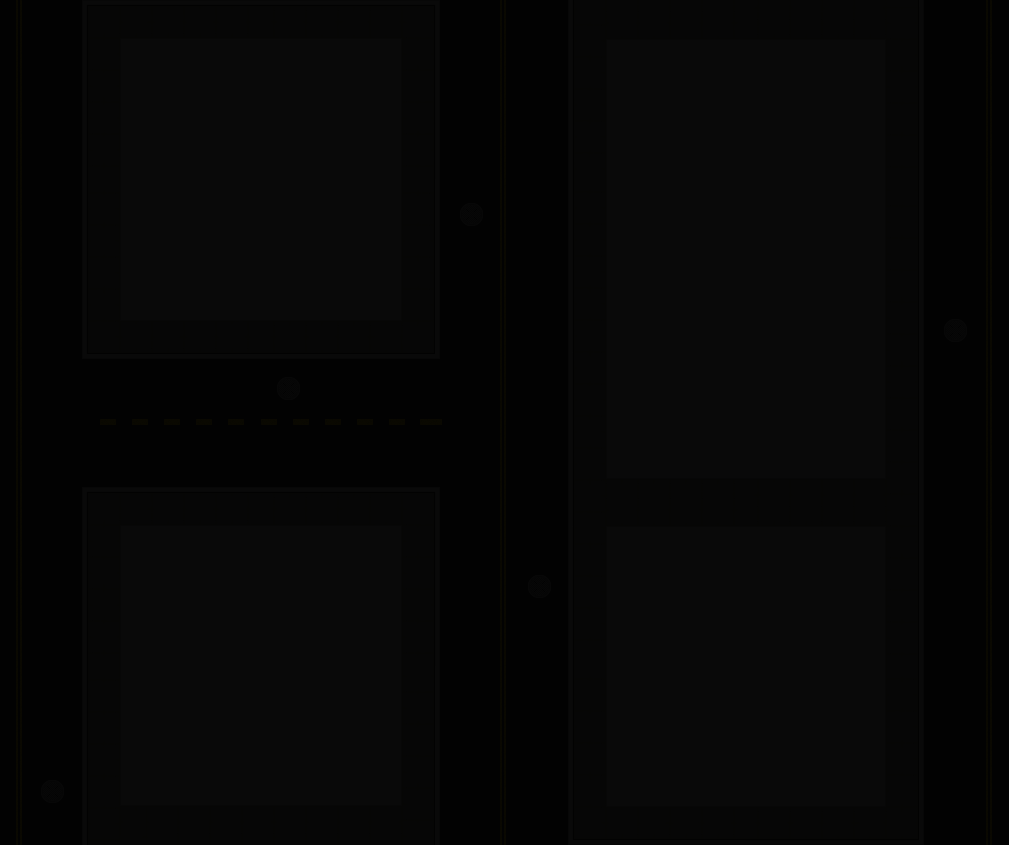
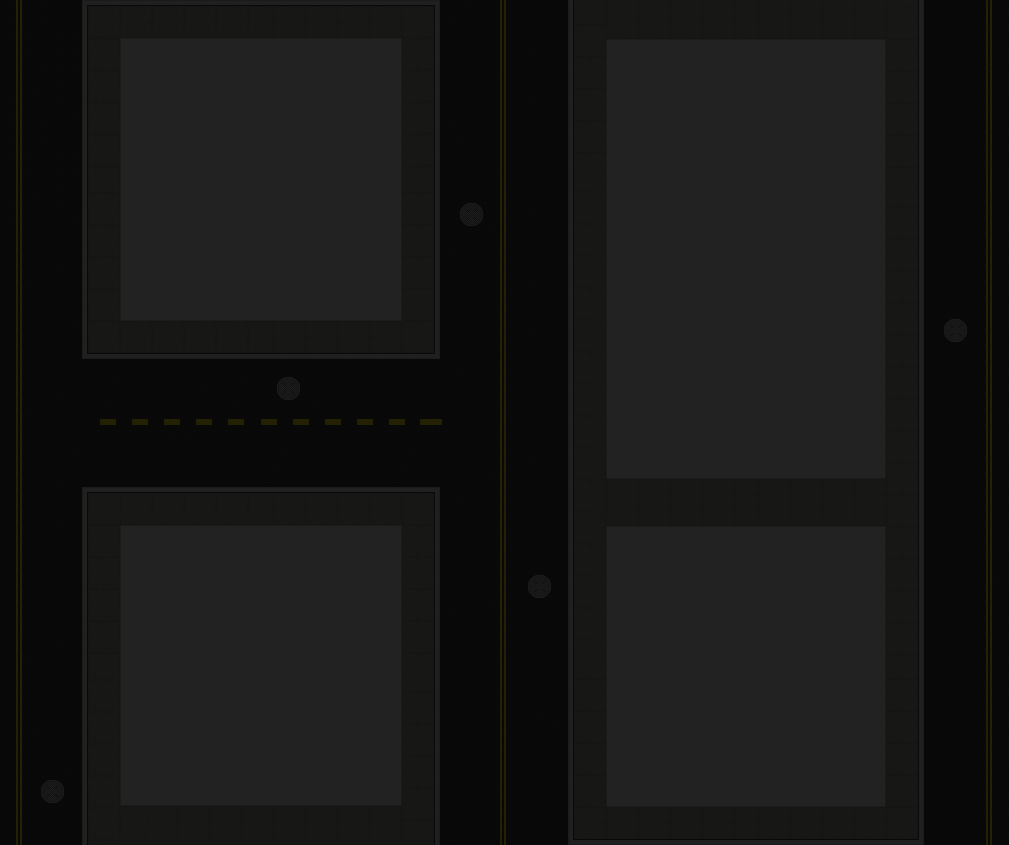
Updated the brightness of An Infestation projects background, as well as adding new text for ImpostorBot projects page.

diff --git a/pages/bot.html b/pages/bot.html
@@ -143,9 +143,6 @@
 
                             <!-- Paragraph 1 -->
                             <p>During the COVID19 lockdown and the unexpected trend of Among Us, I began developing a simple Discord Bot for experimentation in Node.JS and bot development. The bot found its direction as a solution for inviting twitch viewers to play with their favorite streamers in the popular online game Among Us, thus getting the name Impostor Bot.</p>
-
-                            <!-- Paragraph 2 -->
-                            <p>Learning from my mistakes with previous development attempts (Space Game, I'm great with names), I decided to impose a time limit for developing features. I also had more free time, compared to the previous projects with no more school and low work hours, I could afford to sink some real-time into development.</p><br>
                             <!-- SECTION 1 -->
 
                             <!-- SECTION 2 -->
@@ -153,10 +150,10 @@
                             <br><h4>PROJECT GOALS</h4><br>
 
                             <!-- Paragraph 1 -->
-                            <p>The main purpose and goal of Zombie Game was to create a technical, functioning, entertaining video game. Something I could have fun developing and fun playing alike. </p>
+                            <p>The main goal of this project, first and foremost, was to create my first discord bot, with purpose coming after the fact, so I started by making a basic Hello World script and deploying it to Discord. After this, I began brainstorming ideas through the research of DiscordJS documentation and other bots created by the community.</p>
                             
                             <!-- Paragraph 2 -->
-                            <p>I set strict time limits for features and overall project development and created basic pre-development documents. It was to be a top-down shooter with endless spawning zombies and powerups, with the main goal being to survive as long as possible.</p><br>
+                            <p>After playing a few games of Among Us one night and discussing potential solutions for inviting people in the Discord without leaking the code, I had the genius idea of using members of a voice chat and sending private messages to all of them on a bot command. So I challenged myself to my fellow moderators in the VeryPoliteGamer community Discord and got the entirety of the bot idea done in a single night.</p><br>
                             <!-- SECTION 2 -->
 
                             <!-- SECTION 3 -->
@@ -164,31 +161,16 @@
 
                             <ul>
                                 <!-- Dot point 1 -->
-                                <li>First spawning systems.</li>
+                                <li>Successfully learnt and created my first Discord bot.</li>
 
                                 <!-- Dot point 2 -->
-                                <li>First ammo system / multiple weapons.</li>
+                                <li>I set myself a challenge and completed it well under what I could have predicted.</li>
 
                                 <!-- Dot point 3 -->
-                                <li>Multiple game modes.</li>
+                                <li>I learnt a new API/language.</li>
 
                                 <!-- Dot point 4 -->
-                                <li>First simple seeking AI system.</li>
-
-                                <!-- Dot point 5 -->
-                                <li>Improvements in my pixel art skills.</li>
-
-                                <!-- Dot point 6 -->
-                                <li>First time getting simple collision boxes working.</li>
-
-                                <!-- Dot point 6 -->
-                                <li>Gained a better understanding of User Interface design.</li>
-
-                                <!-- Dot point 7 -->
-                                <li>Simple scoring system with saving.</li>
-
-                                <!-- Dot point 8 -->
-                                <li>I had made my first real video game and it was fun.</li>
+                                <li>Began development and finished a personal project for the first time since starting work and finishing university.</li>
                             </ul><br>
                             <!-- SECTION 3 -->
 
@@ -197,10 +179,10 @@
                             <br><h4>LESSONS LEARNED</h4><br>
 
                             <!-- Paragraph 1 -->
-                            <p>I learnt what it was like to work under a strict time limit, I felt the pressure and it made me realise what needed prioritising in development. I also developed a greater understanding of the limitation of a game engine or platform, as well as other lessons that come with developing a video game for the first time.</p>
+                            <p>I learnt I need to be confident, confident I can achieve things in record time if I put my mind to it and focus. This project is an amazing example of what I'm capable of when I get stuck into a new project. While the project is fairly simple and short to complete, I need to take the emotion and the drive I had during its development and apply it to all future projects.</p>
                             
                             <!-- Paragraph 2 -->
-                            <p>But the main lesson I learnt while creating Zombie Game was to try to love what you're doing. I found that because I loved what I was creating I was working faster, I was more motivated and happy, I learnt a lot and pushed myself to learn more, and end with a product that was more polished and further along than I could have ever predicted when I started.</p><br>
+                            <p>Another lesson I learnt is the importance of Hello World programs and starting simple. I get impatient when it comes to new projects and new engines/platforms, and soon find myself lost. That's why Hello World or other simple programs, are the perfect starting point to get a grasp before diving headfirst. Without starting simple to learn about DiscordJS and creating bots, I'm doubtful this project would be complete right now.</p><br>
                             <!-- SECTION 4 -->
 
                         </div>
